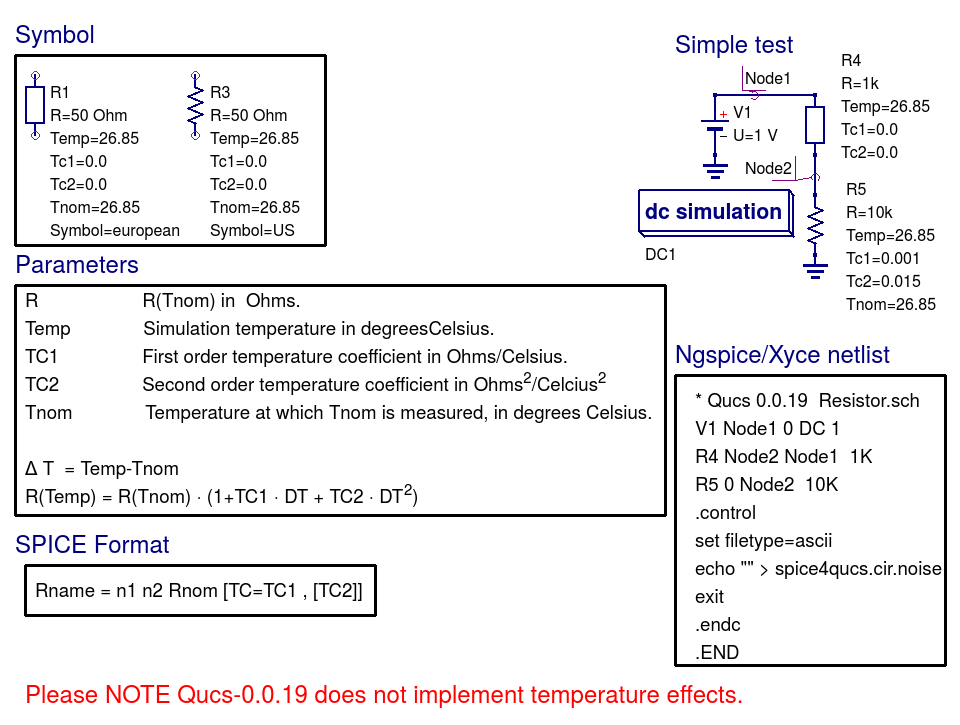
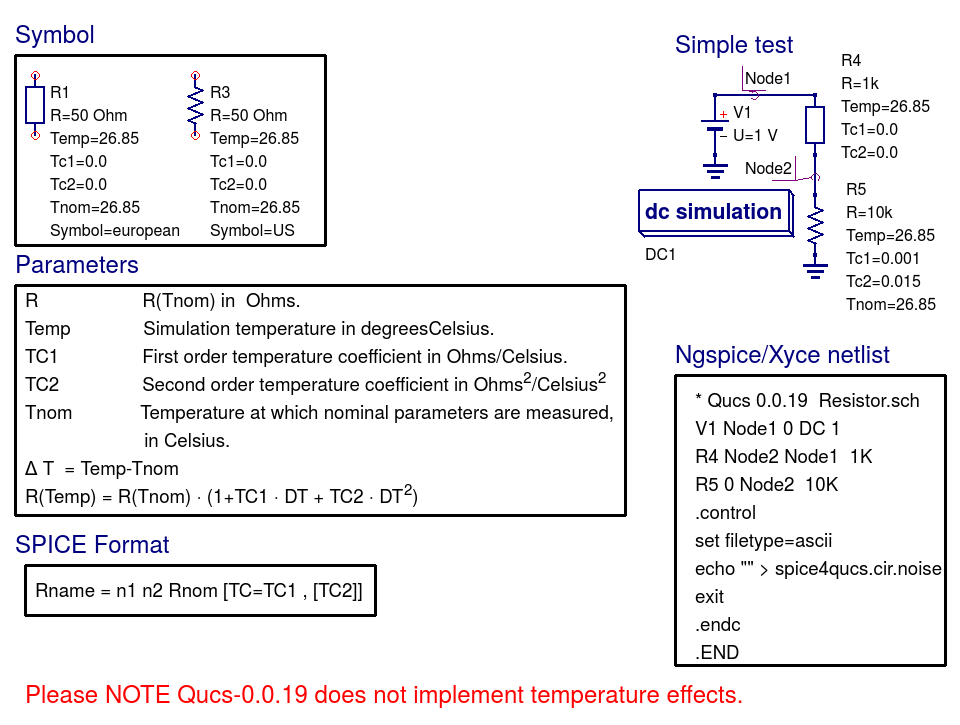
Added more component specifications.

Changed region(s): [[0.1562, 0.5462, 0.6875, 0.6372], [0.6875, 0.3945, 0.7188, 0.4248], [0.6562, 0.6979, 0.6875, 0.7283]]

diff --git a/source/SPICEComp.rst b/source/SPICEComp.rst
@@ -55,12 +55,33 @@ Figure 7.1. Qucs-0.0.18 models that work with ngspice and Xyce.
 7.2 Spice4qucs component specifications and technical reference
 ~~~~~~~~~~~~~~~~~~~~~~~~~~~~~~~~~~~~~~~~~~~~~~~~~~~~~~~~~~~~~~~~~~~~~~~~~~~~~~~~~~~~~~~~~~~
 ^^^^^^^^^^^^^^^^^^
+**Capacitor (C)**
+^^^^^^^^^^^^^^^^^^
+|image3_EN|
+**____________________________________________________________________________________________________________________________**
+
+
+^^^^^^^^^^^^^^^^^^
+**Inductor (L)**
+^^^^^^^^^^^^^^^^^^
+|image4_EN|
+**____________________________________________________________________________________________________________________________**
+
+
+^^^^^^^^^^^^^^^^^^
 **Resistor (R)**
 ^^^^^^^^^^^^^^^^^^
 |image2_EN|
 **____________________________________________________________________________________________________________________________**
 
-7.3 Example simulations demonstrating the use of spice4qucs models
+^^^^^^^^^^^^^^^^^^
+**Independent Voltage Source (V)**
+^^^^^^^^^^^^^^^^^^
+|image5_EN|
+**____________________________________________________________________________________________________________________________**
+
+
+7.3 Example simulations that demonstrate the use of spice4qucs models
 ~~~~~~~~~~~~~~~~~~~~~~~~~~~~~~~~~~~~~~~~~~~~~~~~~~~~~~~~~~~~~~~~~~~~~~~~~~~~~~~~~~~~~~~~~~~
 
 
@@ -71,3 +92,6 @@ Figure 7.1. Qucs-0.0.18 models that work with ngspice and Xyce.
 .. |imageQ_EN|  image:: _static/en/Qucs.png
 .. |image1_EN|  image:: _static/en/chapter7/Fig71.png
 .. |image2_EN|  image:: _static/en/chapter7/Resistor.png
+.. |image3_EN|  image:: _static/en/chapter7/Capacitor.png
+.. |image4_EN|  image:: _static/en/chapter7/Inductor.png
+.. |image5_EN|  image:: _static/en/chapter7/DCVoltageSource.png
